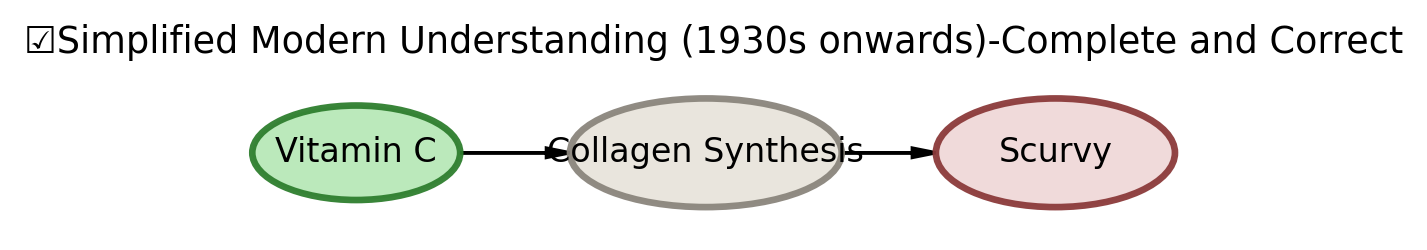
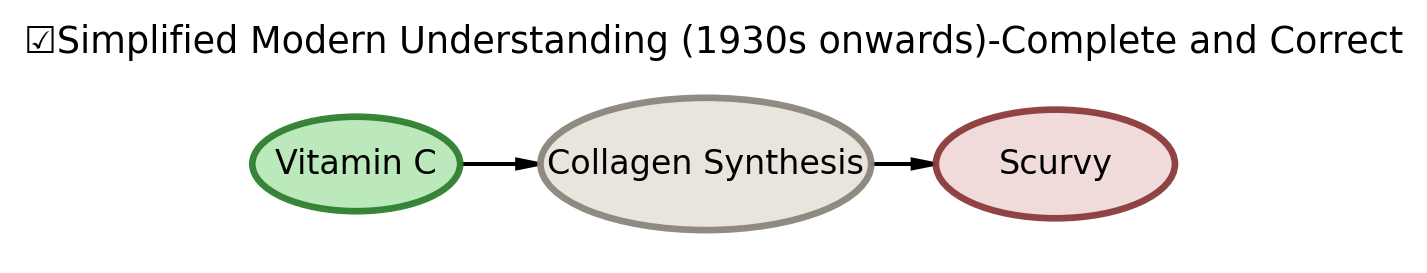
Add change to quarto file

diff --git a/index.html b/index.html
@@ -104,7 +104,7 @@ Ready to create beautiful DAGs!</code></pre>
 <div class="cell-output cell-output-display">
 <div id="dag-2-misguided" class="quarto-figure quarto-figure-center anchored">
 <figure class="figure">
-<p><img src="index_files/figure-html/dag-2-misguided-output-1.png" width="647" height="125" class="figure-img"></p>
+<p><img src="index_files/figure-html/dag-2-misguided-output-1.png" width="647" height="127" class="figure-img"></p>
 <figcaption>Updated Bacterial Theory (Late 19th Century) — Misguided Belief</figcaption>
 </figure>
 </div>
@@ -118,7 +118,7 @@ Ready to create beautiful DAGs!</code></pre>
 <div class="cell-output cell-output-display">
 <div id="dag-3-1928" class="quarto-figure quarto-figure-center anchored">
 <figure class="figure">
-<p><img src="index_files/figure-html/dag-3-1928-output-1.png" width="713" height="125" class="figure-img"></p>
+<p><img src="index_files/figure-html/dag-3-1928-output-1.png" width="713" height="136" class="figure-img"></p>
 <figcaption>Simplified Modern Understanding (1930s onwards)-Complete and Correct</figcaption>
 </figure>
 </div>
